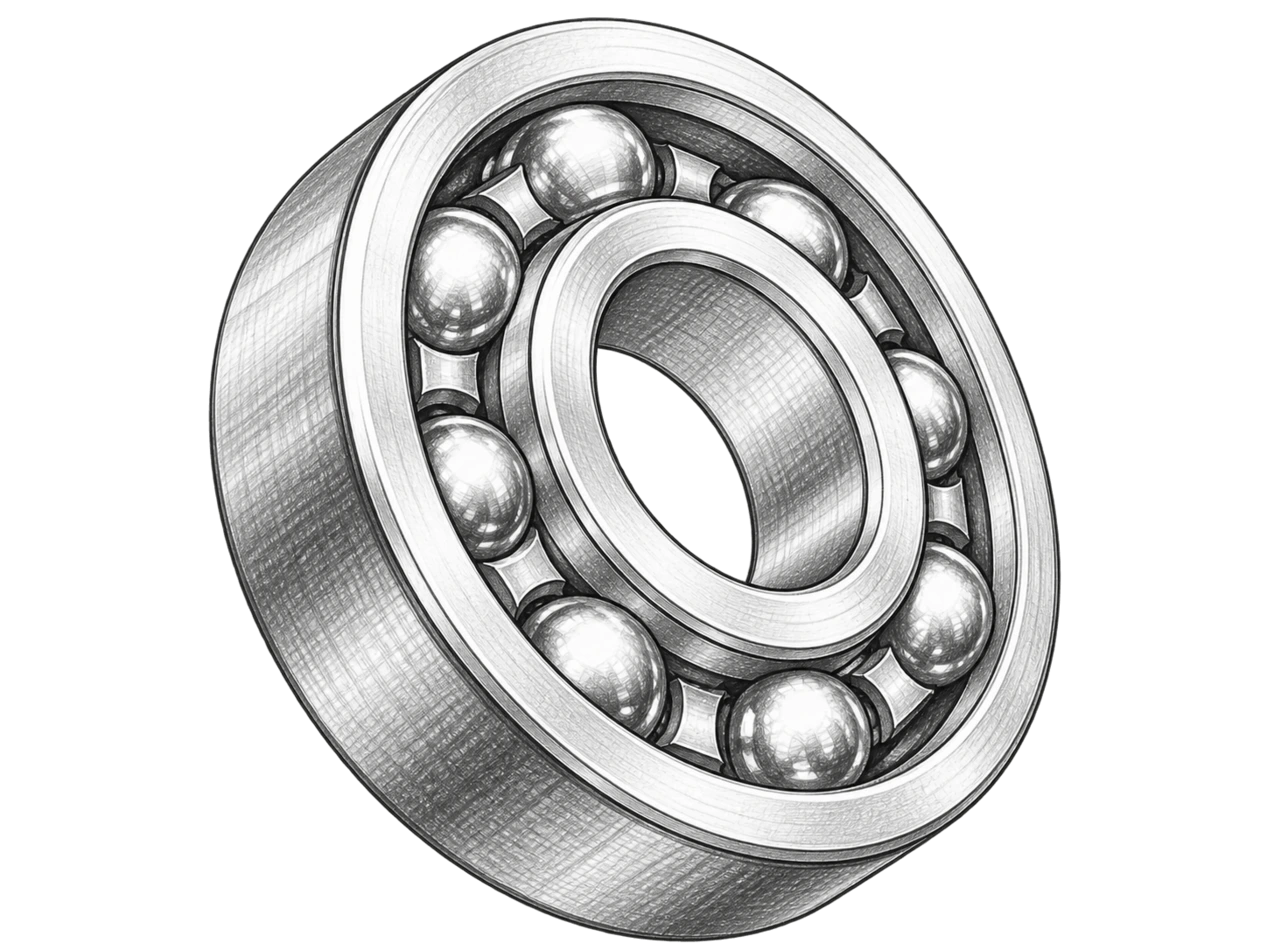
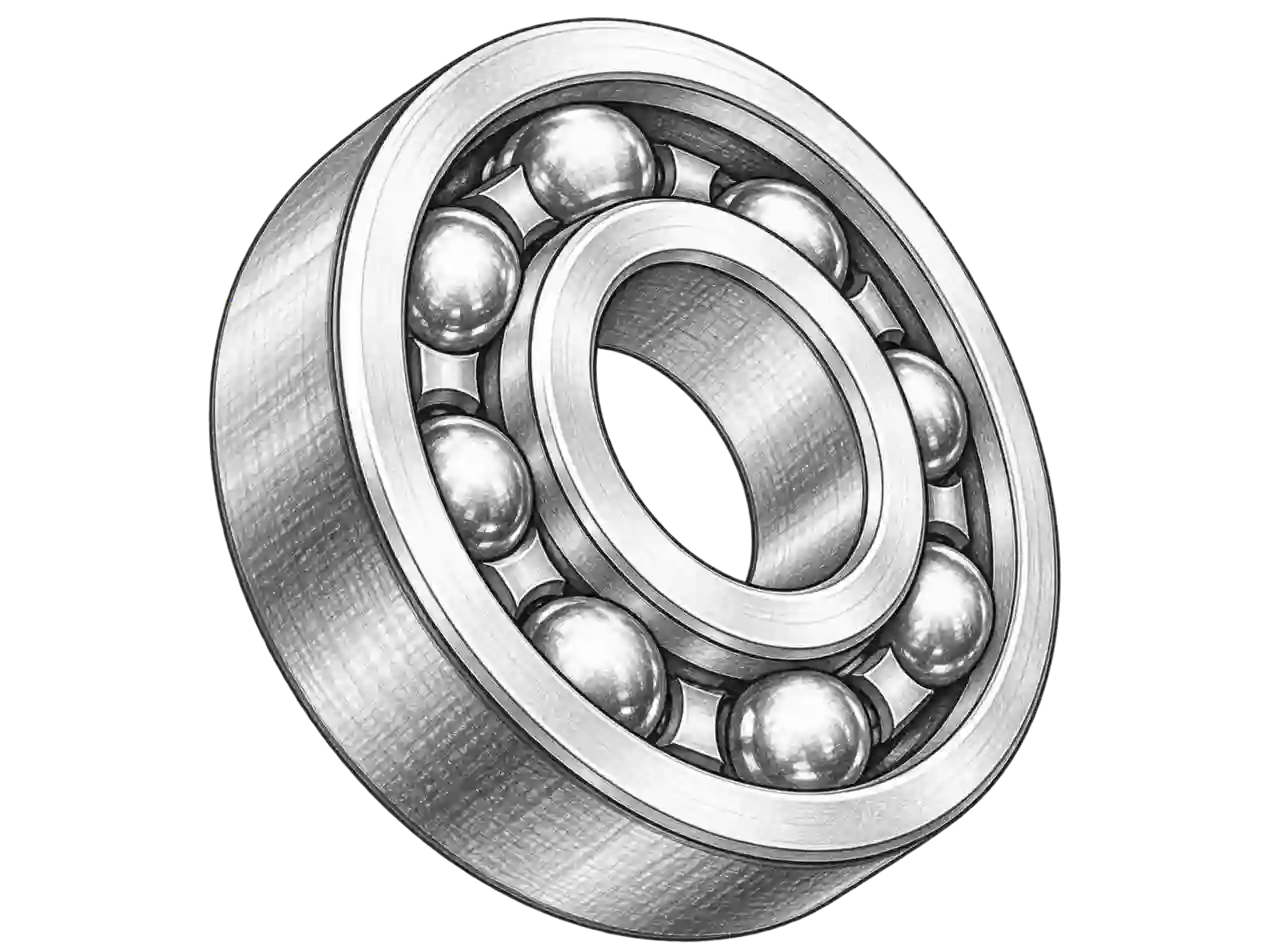
Picture optimization

diff --git a/app/components/home/Contact/Contact.tsx b/app/components/home/Contact/Contact.tsx
@@ -15,7 +15,7 @@ const Contact = async () => {
     return (
         <ContactFormProvider>
             <section id="contact" className="page-section section-y-spacing relative overflow-hidden">
-                <ProgressiveImage src="images/picture-kontakt.png" alt="background" className="object-cover w-full h-full" fill={true} containerClassName="absolute inset-0 z-0 w-full h-full" onLoadOpacity={0.15} />
+                <ProgressiveImage src="images/picture-contact-bgr.webp" alt="background" className="object-cover w-full h-full" fill={true} containerClassName="absolute inset-0 z-0 w-full h-full" onLoadOpacity={0.15} />
 
                 <div className="main-container relative">
                     <SectionTitle className="mb-10 lg:mb-16" title={data?.page?.contactPage?.title} titleAccent={data?.page?.contactPage?.titleAccent} accentEnd={data?.page?.contactPage?.accentEnd} eyebrow={data?.page?.contactPage?.eyebrow} subtitle={data?.page?.contactPage?.subtitle} />
